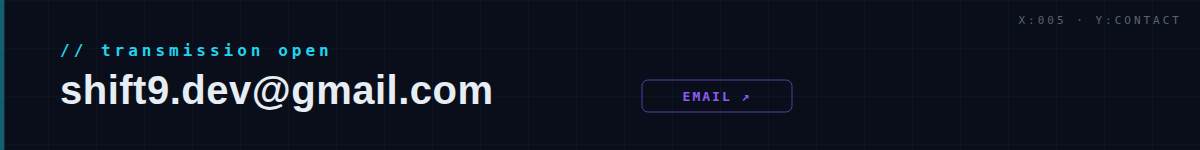
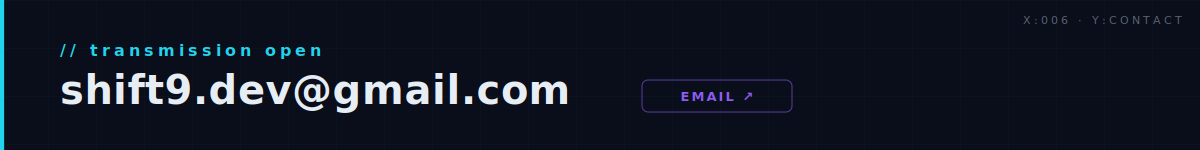
content: studio About + origin story on profile page and shift9.dev
Add an Origin panel to the org profile README (founder line + Galaxy Z
Fold / Steam Deck origin story), generated via build-panels.py, and add
my-skills/relay to the Open Source table. Swap the "About" window copy
inside shift9-dev's interactive desktop (EnterTheStudio.tsx) to the same
founder/origin-story copy — the /studio work-wall page is untouched.

Changed region(s): [[0.0, 0.0, 0.4933, 1.0], [0.8325, 0.1067, 0.9867, 0.16], [0.555, 0.6133, 0.6475, 0.6933]]

diff --git a/shift9/apps/shift9-dev/app/_components/EnterTheStudio.tsx b/shift9/apps/shift9-dev/app/_components/EnterTheStudio.tsx
@@ -583,23 +583,20 @@ export function EnterTheStudio() {
             <div className={s.wbody}>
               {openWin === "about" ? (
                 <div className={s.aboutBody}>
+                  <p>I&#8217;m Kariim &#8212; founder of Shift-9.</p>
                   <p>
-                    Technology was always the pull — life just kept scheduling
-                    around it. Between running restaurants as a GM and operations
-                    manager, I stopped waiting and went all in.
+                    I ran restaurants for a decade before I wrote a line of
+                    code. Now I build software: apps, tools, games, and the
+                    systems that run them.
                   </p>
                   <p>
-                    Now I design and build complete products solo: the app, the
-                    brand around it, and the systems that keep them running. The
-                    restaurant years taught me what most developers learn last —
-                    deadlines are real, the customer&#8217;s experience is the
-                    product, and shipping matters more than talking about shipping.
+                    Everything here &#8212; the studio itself, and
+                    Just-a-Pinch, my first shipped app, now live on Google
+                    Play &#8212; was built on a Samsung Galaxy Z Fold and a
+                    Steam Deck. No dev machine. No office. A folding phone, a
+                    handheld, and a refusal to wait for the right setup.
                   </p>
-                  <p>
-                    The work here is live and working, not mocked up. If you want
-                    someone who takes an idea and hands back a finished product,
-                    that&#8217;s the job I do.
-                  </p>
+                  <p>The gear was never the point. The systems are.</p>
                   <div className={s.sig}>&#8212; KARIIM &#183; SHIFT-9</div>
                   <div className={s.contact}>
                     Hire me for &#8594; full app builds &#183; web design &#183;

diff --git a/profile/scripts/build-panels.py b/profile/scripts/build-panels.py
@@ -91,8 +91,16 @@ svg("intro.svg", 1200, 248, "X:001 · Y:STUDIO", "\n".join([
     t(60, 234, "and the systems that keep them running.", 21, MUTED, "400", SANS),
 ]))
 
+# ── ORIGIN (founder + hardware origin story) ────────────────────────────────
+svg("origin.svg", 1200, 178, "X:002 · Y:ORIGIN", "\n".join([
+    t(60, 56, "// FOUNDED BY KARIIM — FORMER RESTAURANT GM, NOW BUILDER", 16, SIGNAL, "700", MONO, "3"),
+    t(60, 98, "Built on a " + f'<tspan fill="{SIGNAL}">Galaxy Z Fold</tspan>' + " and a " + f'<tspan fill="{PULSE}">Steam Deck.</tspan>', 30, INK, "800", SANS, "0.5"),
+    t(60, 134, "The studio and its first shipped app, Just-a-Pinch, were both built this way —", 18.5, MUTED, "400", SANS),
+    t(60, 158, "no dev machine, no office. The gear was never the point. The systems are.", 18.5, MUTED, "400", SANS),
+]))
+
 # ── LEAD line ───────────────────────────────────────────────────────────────
-svg("lead.svg", 1200, 124, "X:002 · Y:SYSTEM", "\n".join([
+svg("lead.svg", 1200, 124, "X:003 · Y:SYSTEM", "\n".join([
     t(60, 56, "One design system runs through everything we make — " + f'<tspan fill="{SIGNAL}">site, apps, this page.</tspan>', 24, INK, "700", SANS),
     t(60, 90, "The same colors, type, and motion everywhere, so all our work feels like one studio.", 19, MUTED, "400", SANS),
 ]))
@@ -154,7 +162,7 @@ for ln in stack_lines:
         body.append(t(60, y, ln[0], 22, ln[1], "700", MONO))
         body.append(t(290, y, ln[2], 21, ln[3], "400", MONO))
     y += 38
-svg("stack.svg", 1200, y + 6, "X:003 · Y:STACK", "\n".join(body))
+svg("stack.svg", 1200, y + 6, "X:004 · Y:STACK", "\n".join(body))
 
 # ── CURRENTLY SHIPPING ──────────────────────────────────────────────────────
 ship = [
@@ -168,10 +176,10 @@ for code, rest in ship:
     body.append(t(92, y, code, 20, INK, "700", MONO))
     body.append(t(92 + len(code) * 13 + 24, y, rest, 19, MUTED, "400", SANS))
     y += 52
-svg("shipping.svg", 1200, y + 4, "X:004 · Y:SHIPPING", "\n".join(body))
+svg("shipping.svg", 1200, y + 4, "X:005 · Y:SHIPPING", "\n".join(body))
 
 # ── CONTACT (wraps mailto) ──────────────────────────────────────────────────
-svg("contact.svg", 1200, 150, "X:005 · Y:CONTACT", "\n".join([
+svg("contact.svg", 1200, 150, "X:006 · Y:CONTACT", "\n".join([
     t(60, 56, "// transmission open", 16, SIGNAL, "700", MONO, "4"),
     t(60, 104, "shift9.dev@gmail.com", 40, INK, "900", SANS, "0.5"),
     chip(642, 80, 150, "EMAIL  ↗", PULSE),

diff --git a/profile/README.md b/profile/README.md
@@ -4,7 +4,8 @@
 <!-- ░░░░░░░░░░░░░░░░░░░░  NAV  ░░░░░░░░░░░░░░░░░░░░ -->
 <div align="center">
 
-[![What We Build](https://img.shields.io/badge/What_We_Build-0a0e1a?style=flat-square&logoColor=22d3ee)](#what-we-build)
+[![Origin](https://img.shields.io/badge/Origin-0a0e1a?style=flat-square&logoColor=22d3ee)](#origin)
+&nbsp;[![What We Build](https://img.shields.io/badge/What_We_Build-0a0e1a?style=flat-square&logoColor=22d3ee)](#what-we-build)
 &nbsp;[![Open Source](https://img.shields.io/badge/Open_Source-0a0e1a?style=flat-square&logo=github&logoColor=22d3ee)](#open-source)
 &nbsp;[![The Stack](https://img.shields.io/badge/The_Stack-0a0e1a?style=flat-square&logoColor=22d3ee)](#the-stack)
 &nbsp;[![Work With Us](https://img.shields.io/badge/Work_With_Us-0a0e1a?style=flat-square&logoColor=22d3ee)](#work-with-us)
@@ -27,6 +28,10 @@
 
 </div>
 
+## Origin
+
+<img src="./assets/panels/origin.png" width="100%" alt="Founded by Kariim — former restaurant GM, now builder. Built on a Galaxy Z Fold and a Steam Deck. The studio and its first shipped app, Just-a-Pinch, were both built this way — no dev machine, no office. The gear was never the point. The systems are.">
+
 ## What We Build
 
 One design system runs through everything — the studio site, the apps, and this page.
@@ -43,6 +48,8 @@ Public projects — games, tooling, and studio R&D.
 
 | Project | What it is | Stack |
 | :-- | :-- | :-- |
+| **[my-skills](https://github.com/Kariimc/my-skills)** | A 420-skill AI agent operating system — versioned skills, sub-agents, and safety gates across Claude Code and Codex | `Markdown` · `Python` |
+| **[relay](https://github.com/Kariimc/relay)** | A cross-surface handoff system that keeps AI coding agents in sync across machines | `TypeScript` |
 | **Titanium Forge Pro** | A UI/UX component workbench — live demos and copyable snippets (v2 of Neon Forge) | `React` · `TypeScript` |
 | **Midnight Return** | A Metroidvania platformer with hand-built movement and combat | `C#` |
 | **Omni-3D** | A modular toolkit for building 3D games | `TypeScript` |
@@ -75,7 +82,7 @@ Internal projects in progress.
 
 ## Work With Us
 
-Have a project? We take on **brand systems, production web apps, and the infrastructure behind them** — from a single landing page to a full design system shared across products. We design *and* ship, so one team carries it from first pixel to deploy.
+Have a project? We take on **brand systems, production web apps, and the infrastructure behind them** — apps and automations for hospitality & local business, plus AI-agent and developer tooling. We design *and* ship, so one team carries it from first pixel to deploy.
 
 <div align="center">
 

diff --git a/HANDOFF.md b/HANDOFF.md
@@ -4,7 +4,7 @@
 > Update it in the same commit as any code change.
 > `CLAUDE.md` = how to work here. `docs/BLUEPRINT.md` = locked creative direction. This file = where we are.
 
-**Last updated:** 2026-07-14
+**Last updated:** 2026-07-22
 **Repo:** `shift9-studio/.github` - org-owned, NOT in the `Kariimc` user namespace.
 
 ## Read first - the discovery trap
@@ -39,6 +39,18 @@ Deploy: Vercel, both apps from this repo. See `shift9/DEPLOY.md`.
 - `@shift9/ui` - CustomCursor, DecodeText, DitherField, EdgeReticle, GrainField, GridFrame, GridSweep, MagneticButton, MonoLabel, ProximityText, Skeleton, SpiceMote, TelemetryRail, WorkWall.
 - `@shift9/motion` - springs, scrollSignal, useMagnetic, useProximityWeight, useReducedMotionSafe, useScrollVelocity, useInstrumentTelemetry.
 - `@shift9/data` - read-only Supabase client + recipes. Returns `null` when env vars are absent; every consumer carries a static fallback.
+
+## Recent changes
+
+- **2026-07-22 - Studio About + origin story.** Added an "Origin" panel to
+  `profile/README.md` (founder line + Galaxy Z Fold / Steam Deck origin story),
+  generated via `profile/scripts/build-panels.py` (new `origin.svg`/`.png`,
+  existing panel coordinate labels bumped). Added `my-skills` and `relay` to
+  the Open Source table and folded "AI-agent and developer tooling" into
+  the Work With Us blurb. On `shift9.dev`, swapped the copy in the "About"
+  window inside the interactive desktop (`EnterTheStudio.tsx`, opened from
+  the root page after the intro video) to the same founder/origin-story copy
+  - the `/studio` INSTRUMENT work-wall page was intentionally left untouched.
 
 ## Open work - 3 PRs awaiting review, none merged
 
